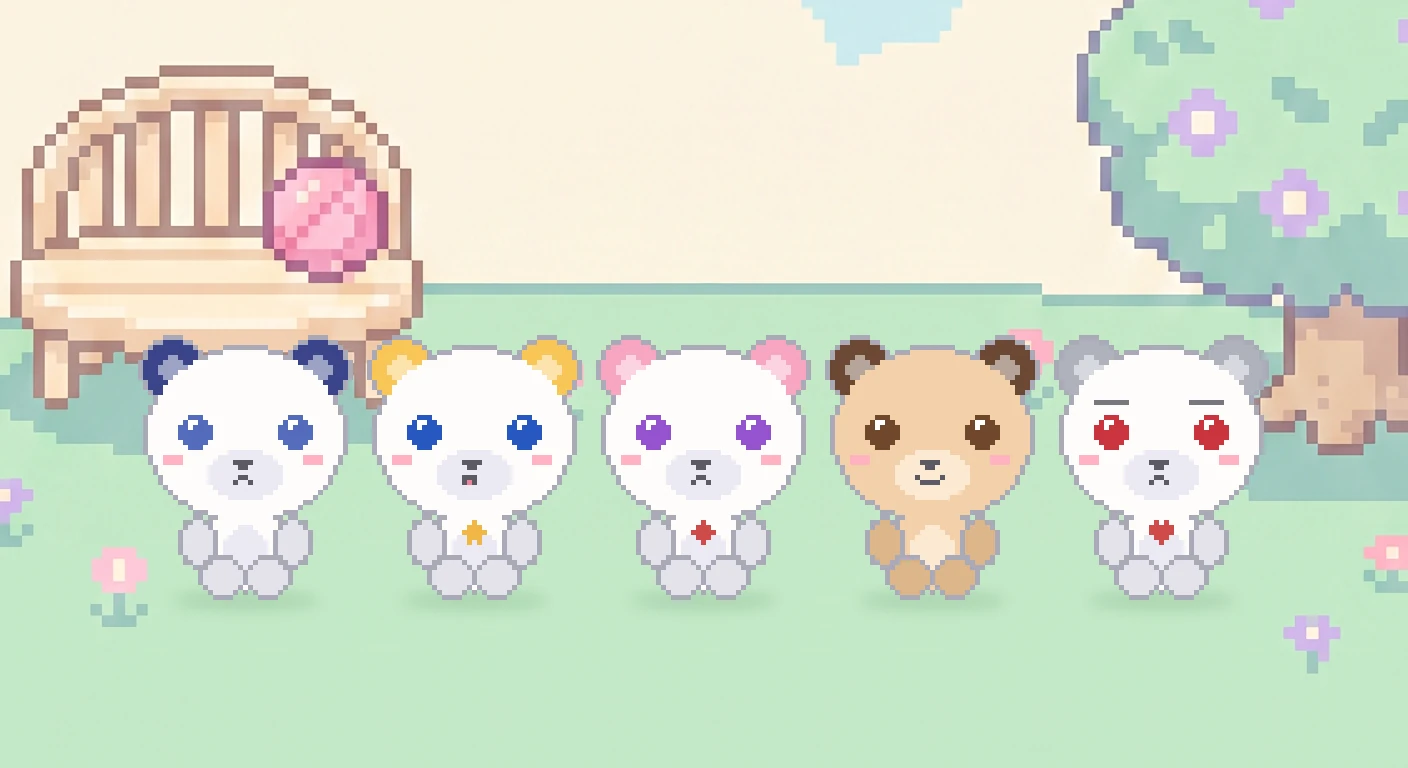
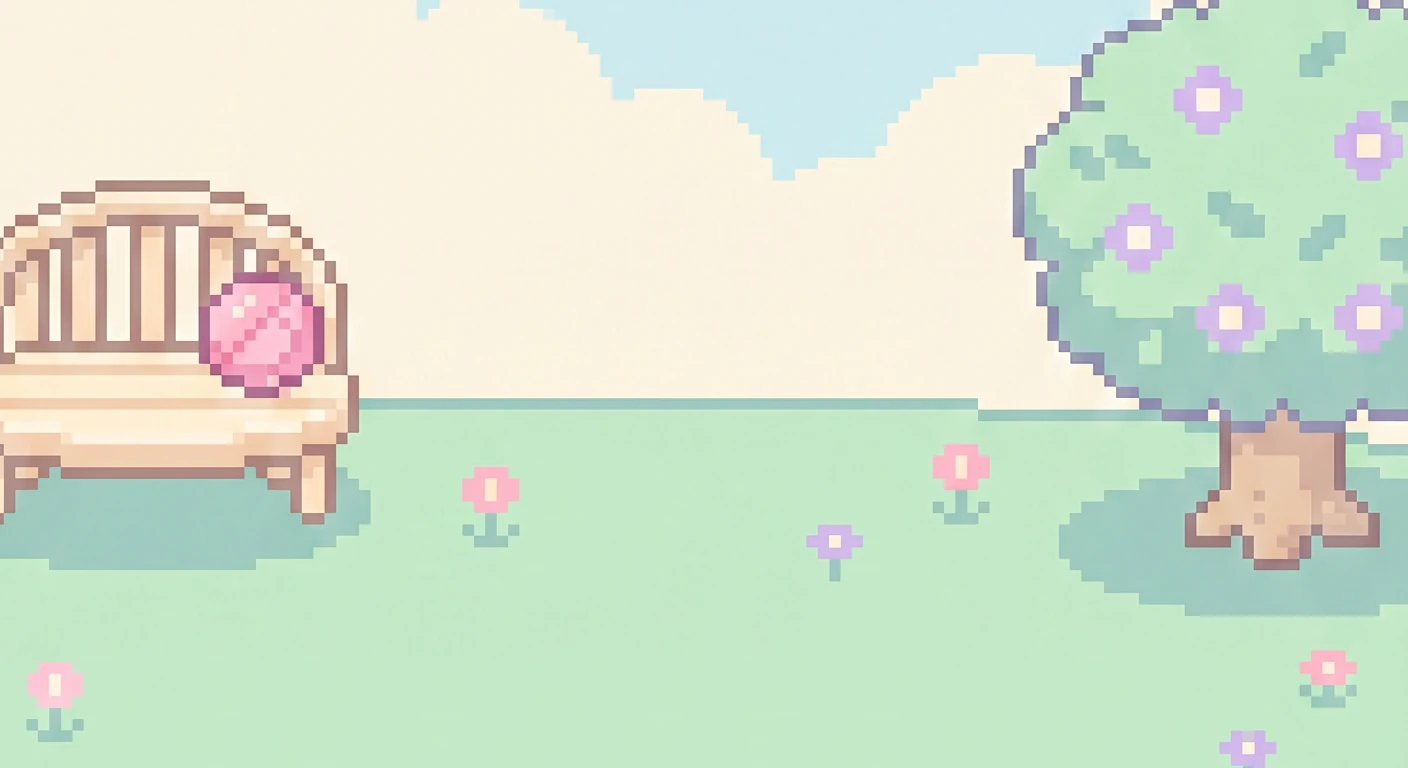
chore(hub): 플코 썸네일에서 캐릭터 제거 — outdoor 룸 풍경만
곰 합성 로직 삭제. 나무가 소스 오른쪽 끝에 붙어 있어 크롭을 오른쪽 정렬로, 하늘 비율 0.55로 구름을 프레임에 포함.

diff --git a/apps/hub/scripts/gen_plco_thumb.py b/apps/hub/scripts/gen_plco_thumb.py
@@ -1,32 +1,21 @@
 """hub 프로젝트 카드용 플코 썸네일 생성 → public/projects/plco.webp (1408x768).
 
-직접 그리지 않는다 — 게임의 실제 에셋만 조합한다.
-배경: apps/plco/public/room_4.png(outdoor 룸) 의 가로 밴드
-캐릭터: apps/plco/public/character_6..10.webp 앞모습 프레임
-
-픽셀아트가 뭉개지지 않게 캐릭터는 논리 픽셀의 정수배로만 확대한다(BEAR_SCALE).
+직접 그리지 않는다 — 게임의 실제 에셋(outdoor 룸)에서 가로 밴드를 잘라낸다.
+원본 해상도 그대로 크롭이라 리샘플링이 없고, 룸 아트의 픽셀 경계가 또렷하게 남는다.
 """
 
 from pathlib import Path
 
-from PIL import Image, ImageDraw, ImageFilter
+from PIL import Image
 
 W, H = 1408, 768
 PLCO_PUBLIC = Path(__file__).resolve().parents[2] / 'plco' / 'public'
 OUT_PATH = Path(__file__).resolve().parent.parent / 'public' / 'projects' / 'plco.webp'
 
-ROOM = 'room_4.png'          # outdoor — 하늘·풀이 있어 가로 밴드로 잘라도 자연스럽다
-BEARS = (6, 7, 8, 9, 10)
-
-# 논리 픽셀 1 → 5px. 정수배라 픽셀이 뭉개지지 않고, 룸 아트 자체의 픽셀 크기와도 비슷해 결이 맞는다.
-# 4배는 머리가 배경 꽃 높이에 걸려 꽃을 얹은 것처럼 보였다.
-BEAR_SCALE = 5
-# 카드 커버는 object-cover로 세로가 잘린다(sm 2단에서 위아래 각 78px). 지평선을 올려 풀을 넓게 두고
-# 캐릭터를 그 안전 구간(y 156~612)에 넣어야 어느 브레이크포인트에서도 몸이 잘리지 않는다.
-SKY_ABOVE = 0.40
-FEET_Y = 600
-GAP = 14                     # 캐릭터 간격
-SHADOW = (108, 156, 120)
+ROOM = 'room_4.png'  # outdoor — 하늘·풀이 있어 가로 밴드로 잘라도 자연스럽다
+# 카드 커버는 object-cover로 세로가 잘린다(sm 2단에서 위아래 각 78px).
+# 하늘:풀 비율 — 0.55면 구름이 프레임에 들어오고 벤치·나무가 안전 구간(y 78~690)에 남는다.
+SKY_ABOVE = 0.55
 
 
 def find_horizon(im):
@@ -46,56 +35,20 @@ def find_horizon(im):
 
 
 def room_band():
-    """원본 해상도에서 1408x768을 그대로 잘라낸다 — 리샘플링이 없으니 룸 아트의 픽셀 경계가 캐릭터처럼 또렷하게 남는다."""
     im = Image.open(PLCO_PUBLIC / ROOM).convert('RGB')
     w, h = im.size
     if w < W or h < H:
         raise RuntimeError(f'룸 에셋이 {W}x{H}보다 작다: {im.size}')
-    left = (w - W) // 2
+    left = w - W  # 오른쪽 정렬 — 나무가 소스의 오른쪽 끝에 붙어 있어 가운데 크롭이면 잘린다
     top = max(0, min(h - H, round(find_horizon(im) - SKY_ABOVE * H)))
     return im.crop((left, top, left + W, top + H))
 
 
-def bear_figures():
-    """앞모습(row 1) 프레임 0을 잘라 정수배로 확대한다."""
-    figs = []
-    for cid in BEARS:
-        sheet = Image.open(PLCO_PUBLIC / f'character_{cid}.webp').convert('RGBA')
-        cell = sheet.crop((0, 256, 256, 512))
-        logical = cell.resize((64, 64), Image.NEAREST)          # 시트는 논리 64의 4배
-        fig = logical.crop(logical.split()[3].getbbox())
-        figs.append(fig.resize((fig.width * BEAR_SCALE, fig.height * BEAR_SCALE), Image.NEAREST))
-    return figs
-
-
-def paste_bears(canvas, figs):
-    total = sum(f.width for f in figs) + GAP * (len(figs) - 1)
-    x = (W - total) // 2
-
-    # 발밑 그림자를 한 레이어에 모아 한 번만 블러 → 룸 아트의 부드러운 그림자와 결을 맞춘다
-    shadow_mask = Image.new('L', (W, H), 0)
-    sd = ImageDraw.Draw(shadow_mask)
-    for f in figs:
-        cx = x + f.width // 2
-        rx, ry = int(f.width * 0.34), 9
-        sd.ellipse((cx - rx, FEET_Y - ry, cx + rx, FEET_Y + ry), fill=70)
-        x += f.width + GAP
-    canvas.paste(SHADOW, (0, 0), shadow_mask.filter(ImageFilter.GaussianBlur(7)))
-
-    x = (W - total) // 2
-    for f in figs:
-        canvas.paste(f, (x, FEET_Y - f.height), f)
-        x += f.width + GAP
-
-
 def main():
     canvas = room_band()
-    figs = bear_figures()
-    paste_bears(canvas, figs)
-    # 룸 아트에 그라데이션이 많아 무손실은 774K까지 커진다. q90은 43K인데
-    # 200% 확대에서도 캐릭터 픽셀 경계가 그대로라 손실을 쓴다.
+    # 룸 아트에 그라데이션이 많아 무손실은 700K를 넘는다. q90이면 픽셀 경계가 그대로라 손실을 쓴다.
     canvas.save(OUT_PATH, 'WEBP', quality=90, method=6)
-    print(f'saved {OUT_PATH} {canvas.size} | 캐릭터 {figs[0].height}px 높이')
+    print(f'saved {OUT_PATH} {canvas.size}')
 
 
 if __name__ == '__main__':
